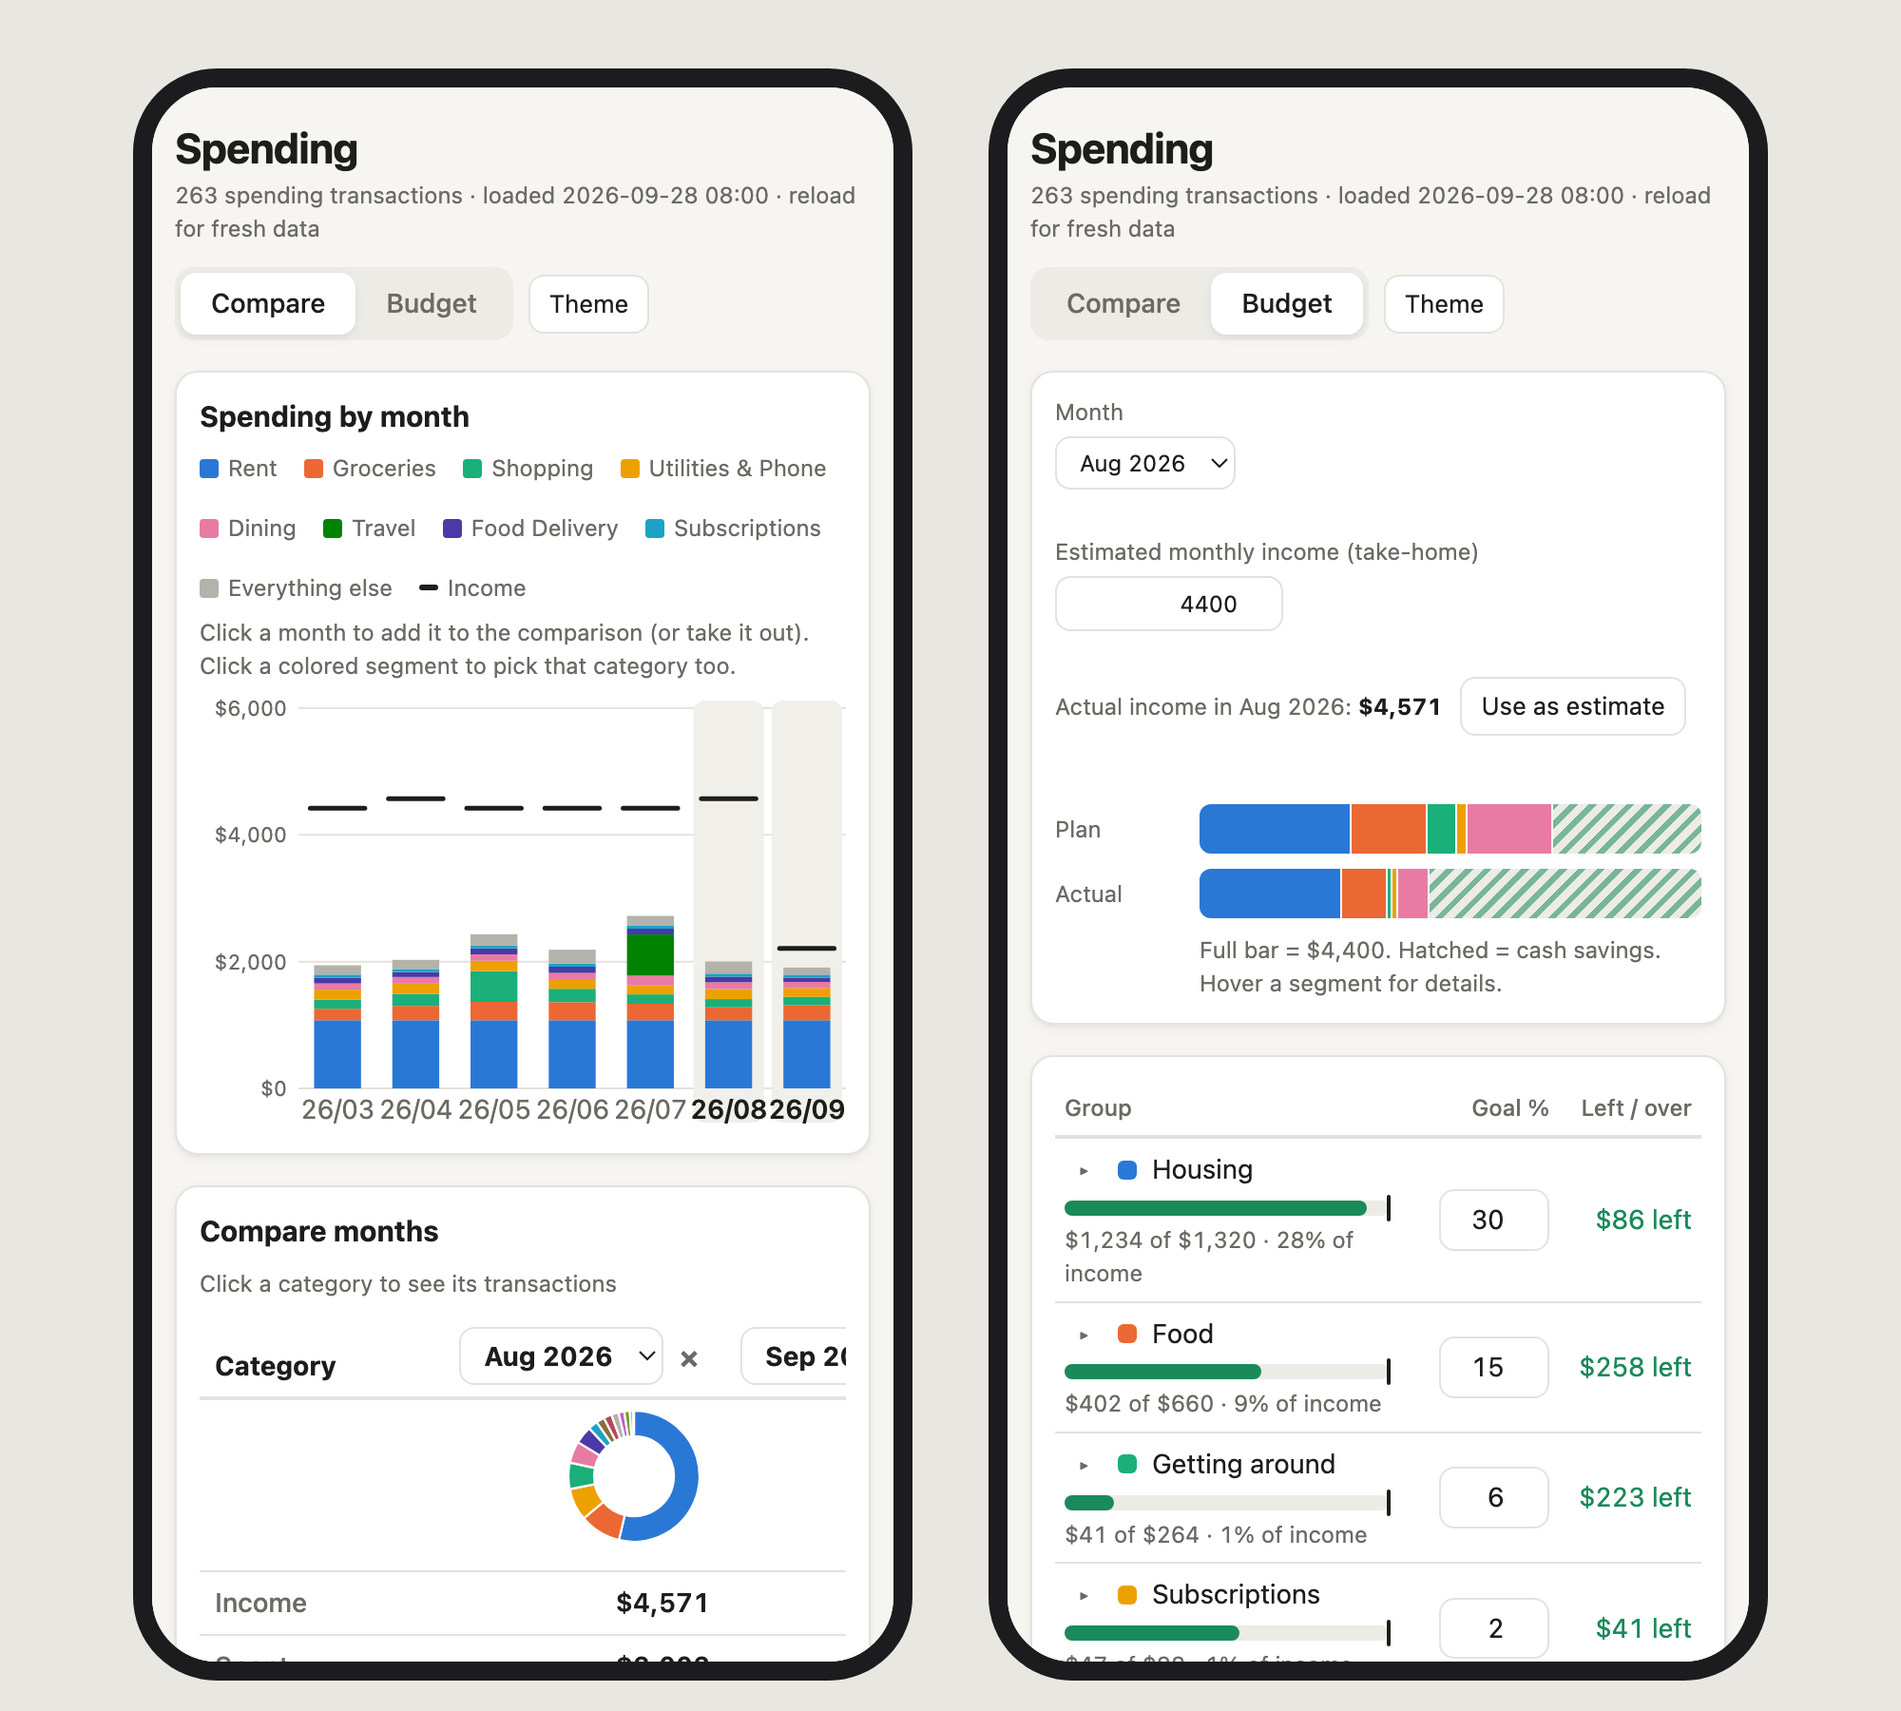
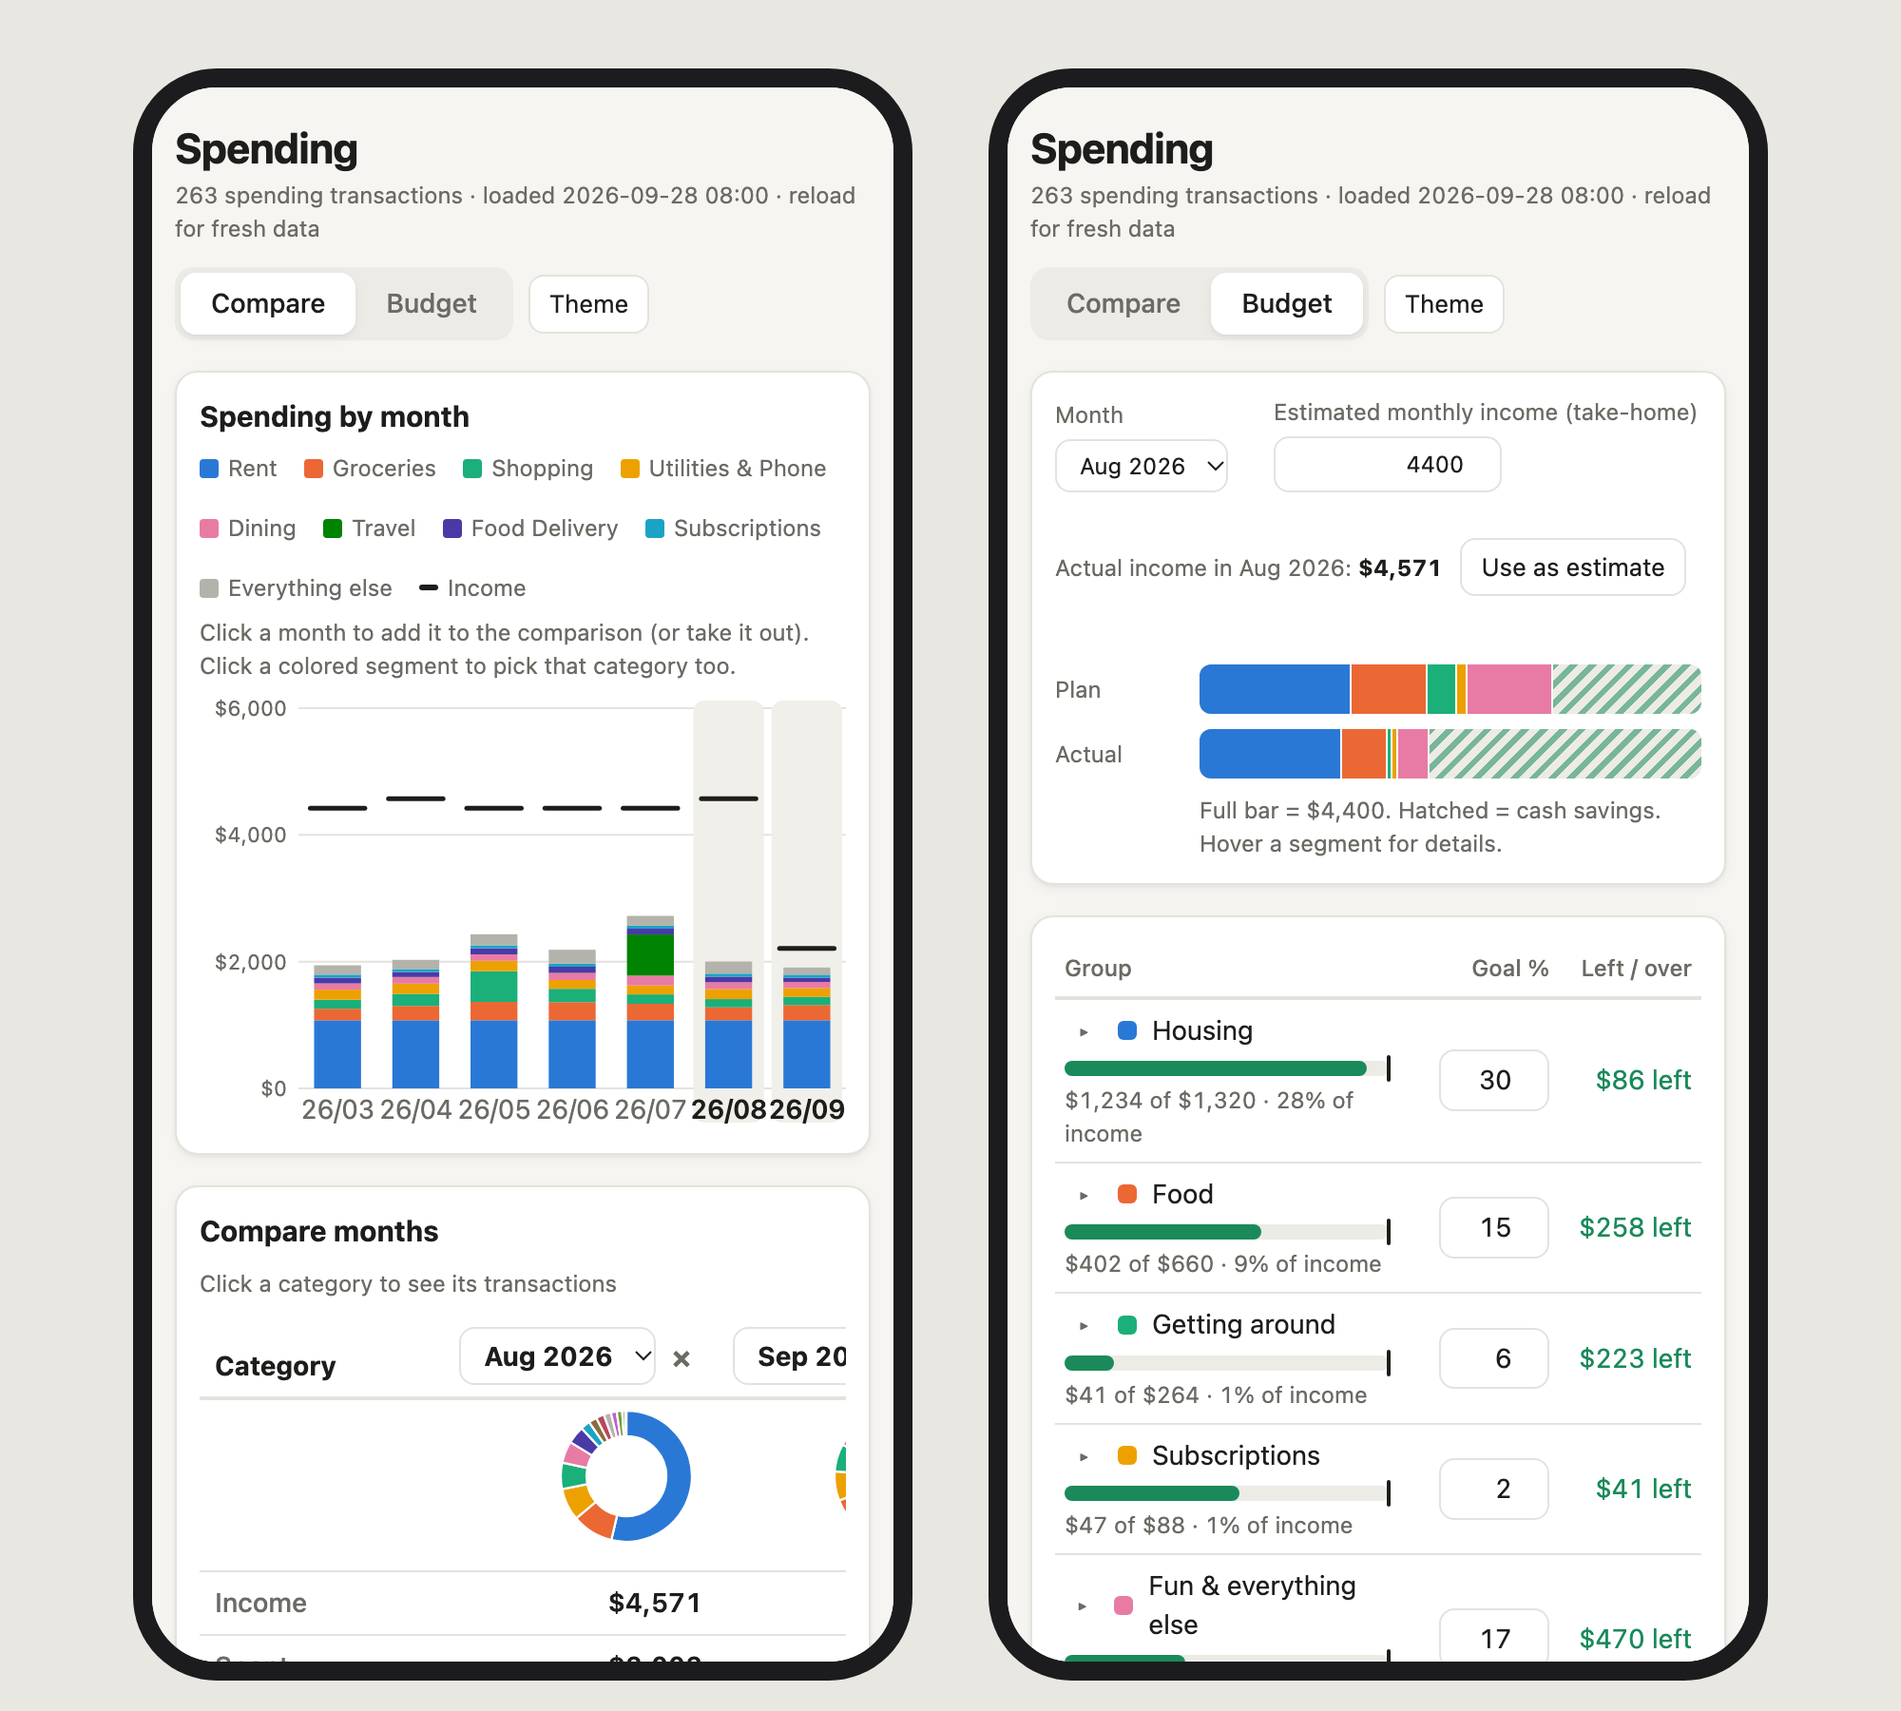
Dashboard: Spending / Income toggle on the transaction list

diff --git a/docs/demo/dashboard.html b/docs/demo/dashboard.html
@@ -42,6 +42,7 @@ button { font: inherit; color: var(--ink); cursor: pointer; }
 .tabs { display: inline-flex; background: var(--track); border-radius: 10px; padding: 3px; }
 .tabs button { border: 0; background: none; padding: 6px 16px; border-radius: 8px; color: var(--muted); font-weight: 500; }
 .tabs button.on { background: var(--panel); color: var(--ink); box-shadow: var(--shadow); }
+#kind button { padding: 3px 12px; font-size: 13px; }
 .dot { display: inline-block; width: 10px; height: 10px; border-radius: 3px; flex: none; }
 .good { color: var(--good); } .bad { color: var(--bad); }
 .scroll { overflow-x: auto; }
@@ -173,7 +174,9 @@ table.goals { width: 100%; border-collapse: collapse; }
 
     <section class="card">
       <div class="row between wrap" style="gap:12px">
-        <div class="row"><span class="dot" id="detail-dot"></span><h2 id="detail-title"></h2>
+        <div class="row wrap"><span class="dot" id="detail-dot"></span><h2 id="detail-title"></h2>
+          <div class="tabs" id="kind" role="tablist" aria-label="Transaction type">
+            <button data-kind="spending" role="tab">Spending</button><button data-kind="income" role="tab">Income</button></div>
           <button class="btn" id="clear" hidden>Show all categories</button></div>
         <input type="search" id="q" placeholder="Filter transactions…" aria-label="Filter transactions">
       </div>
@@ -211,7 +214,7 @@ const catTotals = sumBy(spend, t => t.cat, t => -t.amt);
 const cats = Object.keys(catTotals).sort((a, b) => catTotals[b] - catTotals[a]);
 const color = c => { const i = cats.indexOf(c); return i >= 0 && i < PALETTE.length ? PALETTE[i] : "var(--gray)"; };
 
-const state = { view: "compare", months: months.slice(0, 2).reverse(), cat: null, q: "", bMonth: months[0] };
+const state = { view: "compare", months: months.slice(0, 2).reverse(), cat: null, q: "", kind: "spending", bMonth: months[0] };
 const goals = { income: DATA.goals.income || 0, groups: (DATA.goals.groups || []).map(g => ({...g, cats: [...g.cats]})) };
 
 function sumBy(rows, key, val) { const o = {}; for (const r of rows) o[key(r)] = (o[key(r)] || 0) + val(r); return o; }
@@ -236,7 +239,7 @@ function showTip(e, html) { tip.innerHTML = html; tip.style.opacity = 1;
 function hideTip() { tip.style.opacity = 0; }
 function tipOn(el, html) { el.addEventListener("mousemove", e => showTip(e, html)); el.addEventListener("mouseleave", hideTip); }
 
-function pickCat(c) { state.cat = state.cat === c ? null : c; renderCompare(); }
+function pickCat(c) { state.cat = state.cat === c ? null : c; state.kind = "spending"; renderCompare(); }
 function toggleMonth(m) {
   const i = state.months.indexOf(m);
   if (i >= 0 && state.months.length > 1) state.months.splice(i, 1);
@@ -359,21 +362,24 @@ function donut(byCat) {
 
 // ---------- transaction lists ----------
 function renderLists() {
-  const c = state.cat, q = state.q.toLowerCase();
-  document.getElementById("detail-title").textContent = c ? `${c} transactions` : "All spending transactions";
+  // Income mode lists every income row; the category pick only narrows spending.
+  const inc = state.kind === "income", c = inc ? null : state.cat, q = state.q.toLowerCase();
+  document.getElementById("detail-title").textContent = c ? `${c} transactions` : inc ? "All income transactions" : "All spending transactions";
   document.getElementById("detail-dot").style.background = c ? color(c) : "transparent";
   document.getElementById("clear").hidden = !c;
+  document.querySelectorAll("#kind button").forEach(b => { b.classList.toggle("on", b.dataset.kind === state.kind); b.setAttribute("aria-selected", b.dataset.kind === state.kind); });
+  const src = inc ? DATA.txns.filter(t => t.kind === "income") : spend, sign = inc ? 1 : -1;
   document.getElementById("lists").innerHTML = state.months.map(m => {
-    const rows = spend.filter(t => inMonth(t, m) && (!c || t.cat === c) &&
-      (!q || `${t.desc} ${t.note} ${t.cat}`.toLowerCase().includes(q))).sort((a, b) => a.amt - b.amt);
-    const total = rows.reduce((s, t) => s - t.amt, 0);
+    const rows = src.filter(t => inMonth(t, m) && (!c || t.cat === c) &&
+      (!q || `${t.desc} ${t.note} ${t.cat}`.toLowerCase().includes(q))).sort((a, b) => sign * (b.amt - a.amt));
+    const total = rows.reduce((s, t) => s + sign * t.amt, 0);
     let h = `<div><div class="row between" style="margin:6px 0"><b>${monthName(m)}</b><span class="muted">${rows.length} · <b style="color:var(--ink)">${fmt2(total)}</b></span></div>`;
     if (!rows.length) return h + `<div class="empty">Nothing here.</div></div>`;
     h += `<table class="tx"><tbody>`;
     for (const t of rows.slice(0, 300)) {
-      const v = -t.amt;
+      const v = sign * t.amt;
       h += `<tr><td class="date">${m === ALL ? t.d.slice(2) : t.d.slice(5)}</td><td>${esc(t.desc)}${c ? "" : ` <span class="tag">· ${esc(t.cat)}</span>`}
-        ${t.note ? `<div class="note">${esc(t.note)}</div>` : ""}</td><td class="amt ${v < 0 ? "refund" : ""}">${fmt2(v)}</td></tr>`;
+        ${t.note ? `<div class="note">${esc(t.note)}</div>` : ""}</td><td class="amt ${v < 0 ? (inc ? "bad" : "refund") : ""}">${fmt2(v)}</td></tr>`;
     }
     if (rows.length > 300) h += `<tr><td colspan="3" class="empty">…and ${rows.length - 300} more. Narrow it with the filter.</td></tr>`;
     return h + `</tbody></table></div>`;
@@ -525,13 +531,14 @@ function changed() {
 // ---------- wiring ----------
 function setView(v) {
   state.view = v;
-  document.querySelectorAll(".tabs button").forEach(b => { b.classList.toggle("on", b.dataset.view === v); b.setAttribute("aria-selected", b.dataset.view === v); });
+  document.querySelectorAll(".tabs button[data-view]").forEach(b => { b.classList.toggle("on", b.dataset.view === v); b.setAttribute("aria-selected", b.dataset.view === v); });
   document.getElementById("view-compare").hidden = v !== "compare";
   document.getElementById("view-budget").hidden = v !== "budget";
   try { localStorage.setItem("view", v); } catch (e) {}
   v === "compare" ? renderCompare() : renderBudget();
 }
-document.querySelectorAll(".tabs button").forEach(b => b.addEventListener("click", () => setView(b.dataset.view)));
+document.querySelectorAll(".tabs button[data-view]").forEach(b => b.addEventListener("click", () => setView(b.dataset.view)));
+document.querySelectorAll("#kind button").forEach(b => b.addEventListener("click", () => { state.kind = b.dataset.kind; renderLists(); }));
 document.getElementById("built").textContent = `${spend.length.toLocaleString()} spending transactions · loaded ${DATA.built}` +
   (DATA.token || DATA.remote ? " · reload for fresh data" : " · rerun tracker.py dashboard to refresh");
 document.getElementById("clear").addEventListener("click", () => pickCat(state.cat));

diff --git a/spending_tracker/dashboard.html b/spending_tracker/dashboard.html
@@ -42,6 +42,7 @@ button { font: inherit; color: var(--ink); cursor: pointer; }
 .tabs { display: inline-flex; background: var(--track); border-radius: 10px; padding: 3px; }
 .tabs button { border: 0; background: none; padding: 6px 16px; border-radius: 8px; color: var(--muted); font-weight: 500; }
 .tabs button.on { background: var(--panel); color: var(--ink); box-shadow: var(--shadow); }
+#kind button { padding: 3px 12px; font-size: 13px; }
 .dot { display: inline-block; width: 10px; height: 10px; border-radius: 3px; flex: none; }
 .good { color: var(--good); } .bad { color: var(--bad); }
 .scroll { overflow-x: auto; }
@@ -173,7 +174,9 @@ table.goals { width: 100%; border-collapse: collapse; }
 
     <section class="card">
       <div class="row between wrap" style="gap:12px">
-        <div class="row"><span class="dot" id="detail-dot"></span><h2 id="detail-title"></h2>
+        <div class="row wrap"><span class="dot" id="detail-dot"></span><h2 id="detail-title"></h2>
+          <div class="tabs" id="kind" role="tablist" aria-label="Transaction type">
+            <button data-kind="spending" role="tab">Spending</button><button data-kind="income" role="tab">Income</button></div>
           <button class="btn" id="clear" hidden>Show all categories</button></div>
         <input type="search" id="q" placeholder="Filter transactions…" aria-label="Filter transactions">
       </div>
@@ -211,7 +214,7 @@ const catTotals = sumBy(spend, t => t.cat, t => -t.amt);
 const cats = Object.keys(catTotals).sort((a, b) => catTotals[b] - catTotals[a]);
 const color = c => { const i = cats.indexOf(c); return i >= 0 && i < PALETTE.length ? PALETTE[i] : "var(--gray)"; };
 
-const state = { view: "compare", months: months.slice(0, 2).reverse(), cat: null, q: "", bMonth: months[0] };
+const state = { view: "compare", months: months.slice(0, 2).reverse(), cat: null, q: "", kind: "spending", bMonth: months[0] };
 const goals = { income: DATA.goals.income || 0, groups: (DATA.goals.groups || []).map(g => ({...g, cats: [...g.cats]})) };
 
 function sumBy(rows, key, val) { const o = {}; for (const r of rows) o[key(r)] = (o[key(r)] || 0) + val(r); return o; }
@@ -236,7 +239,7 @@ function showTip(e, html) { tip.innerHTML = html; tip.style.opacity = 1;
 function hideTip() { tip.style.opacity = 0; }
 function tipOn(el, html) { el.addEventListener("mousemove", e => showTip(e, html)); el.addEventListener("mouseleave", hideTip); }
 
-function pickCat(c) { state.cat = state.cat === c ? null : c; renderCompare(); }
+function pickCat(c) { state.cat = state.cat === c ? null : c; state.kind = "spending"; renderCompare(); }
 function toggleMonth(m) {
   const i = state.months.indexOf(m);
   if (i >= 0 && state.months.length > 1) state.months.splice(i, 1);
@@ -359,21 +362,24 @@ function donut(byCat) {
 
 // ---------- transaction lists ----------
 function renderLists() {
-  const c = state.cat, q = state.q.toLowerCase();
-  document.getElementById("detail-title").textContent = c ? `${c} transactions` : "All spending transactions";
+  // Income mode lists every income row; the category pick only narrows spending.
+  const inc = state.kind === "income", c = inc ? null : state.cat, q = state.q.toLowerCase();
+  document.getElementById("detail-title").textContent = c ? `${c} transactions` : inc ? "All income transactions" : "All spending transactions";
   document.getElementById("detail-dot").style.background = c ? color(c) : "transparent";
   document.getElementById("clear").hidden = !c;
+  document.querySelectorAll("#kind button").forEach(b => { b.classList.toggle("on", b.dataset.kind === state.kind); b.setAttribute("aria-selected", b.dataset.kind === state.kind); });
+  const src = inc ? DATA.txns.filter(t => t.kind === "income") : spend, sign = inc ? 1 : -1;
   document.getElementById("lists").innerHTML = state.months.map(m => {
-    const rows = spend.filter(t => inMonth(t, m) && (!c || t.cat === c) &&
-      (!q || `${t.desc} ${t.note} ${t.cat}`.toLowerCase().includes(q))).sort((a, b) => a.amt - b.amt);
-    const total = rows.reduce((s, t) => s - t.amt, 0);
+    const rows = src.filter(t => inMonth(t, m) && (!c || t.cat === c) &&
+      (!q || `${t.desc} ${t.note} ${t.cat}`.toLowerCase().includes(q))).sort((a, b) => sign * (b.amt - a.amt));
+    const total = rows.reduce((s, t) => s + sign * t.amt, 0);
     let h = `<div><div class="row between" style="margin:6px 0"><b>${monthName(m)}</b><span class="muted">${rows.length} · <b style="color:var(--ink)">${fmt2(total)}</b></span></div>`;
     if (!rows.length) return h + `<div class="empty">Nothing here.</div></div>`;
     h += `<table class="tx"><tbody>`;
     for (const t of rows.slice(0, 300)) {
-      const v = -t.amt;
+      const v = sign * t.amt;
       h += `<tr><td class="date">${m === ALL ? t.d.slice(2) : t.d.slice(5)}</td><td>${esc(t.desc)}${c ? "" : ` <span class="tag">· ${esc(t.cat)}</span>`}
-        ${t.note ? `<div class="note">${esc(t.note)}</div>` : ""}</td><td class="amt ${v < 0 ? "refund" : ""}">${fmt2(v)}</td></tr>`;
+        ${t.note ? `<div class="note">${esc(t.note)}</div>` : ""}</td><td class="amt ${v < 0 ? (inc ? "bad" : "refund") : ""}">${fmt2(v)}</td></tr>`;
     }
     if (rows.length > 300) h += `<tr><td colspan="3" class="empty">…and ${rows.length - 300} more. Narrow it with the filter.</td></tr>`;
     return h + `</tbody></table></div>`;
@@ -525,13 +531,14 @@ function changed() {
 // ---------- wiring ----------
 function setView(v) {
   state.view = v;
-  document.querySelectorAll(".tabs button").forEach(b => { b.classList.toggle("on", b.dataset.view === v); b.setAttribute("aria-selected", b.dataset.view === v); });
+  document.querySelectorAll(".tabs button[data-view]").forEach(b => { b.classList.toggle("on", b.dataset.view === v); b.setAttribute("aria-selected", b.dataset.view === v); });
   document.getElementById("view-compare").hidden = v !== "compare";
   document.getElementById("view-budget").hidden = v !== "budget";
   try { localStorage.setItem("view", v); } catch (e) {}
   v === "compare" ? renderCompare() : renderBudget();
 }
-document.querySelectorAll(".tabs button").forEach(b => b.addEventListener("click", () => setView(b.dataset.view)));
+document.querySelectorAll(".tabs button[data-view]").forEach(b => b.addEventListener("click", () => setView(b.dataset.view)));
+document.querySelectorAll("#kind button").forEach(b => b.addEventListener("click", () => { state.kind = b.dataset.kind; renderLists(); }));
 document.getElementById("built").textContent = `${spend.length.toLocaleString()} spending transactions · loaded ${DATA.built}` +
   (DATA.token || DATA.remote ? " · reload for fresh data" : " · rerun tracker.py dashboard to refresh");
 document.getElementById("clear").addEventListener("click", () => pickCat(state.cat));

diff --git a/docs/FEATURES.md b/docs/FEATURES.md
@@ -56,7 +56,7 @@ One self-contained HTML page (`spending_tracker/dashboard.html`) with no librari
 **Compare**
 - Monthly stacked bars (last 24 months; 12 on a phone) for the top 8 categories plus "Everything else", with an income line. Click a month to add it to the comparison or take it out, or click a segment to pick that category.
 - A table with one column per chosen month (add as many as you like) and one row per category: dollars, % of that month's spending and a bar, plus a donut per month and Income / Spent / Saved rows.
-- Click a category to list its transactions for every chosen month side by side, biggest first, with notes. A filter box searches descriptions, notes and categories.
+- Click a category to list its transactions for every chosen month side by side, biggest first, with notes. A filter box searches descriptions, notes and categories. A Spending / Income toggle switches the list to every income row (paychecks, family money and the like) per month.
 
 **Budget**
 - Pick a month and set your estimated take-home income, or copy that month's actual income with "Use as estimate".
